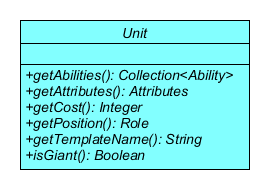
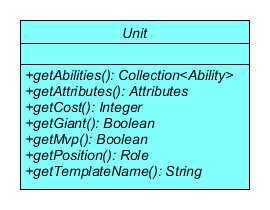
The Unit interface now indicates if said unit is a MVP.

Changed region(s): [[0.0593, 0.2895, 0.9185, 0.9211], [0.0593, 0.0789, 0.9185, 0.2368]]

diff --git a/src/main/java/com/wandrell/tabletop/dreadball/model/unit/Unit.java b/src/main/java/com/wandrell/tabletop/dreadball/model/unit/Unit.java
@@ -91,6 +91,20 @@ public interface Unit {
     public Integer getCost();
 
     /**
+     * Indicates whether the unit is a giant or not.
+     *
+     * @return {@code true} if the player is a giant, {@code false} otherwise
+     */
+    public Boolean getGiant();
+
+    /**
+     * Indicates whether the unit is a MVP or not.
+     *
+     * @return {@code true} if the player is a MVP, {@code false} otherwise
+     */
+    public Boolean getMvp();
+
+    /**
      * Returns the name given to the unit.
      * <p>
      * This is name used by the user to identify the unit.
@@ -116,12 +130,5 @@ public interface Unit {
      * @return the template's name.
      */
     public String getTemplateName();
-
-    /**
-     * Indicates whether the unit is a giant or not.
-     *
-     * @return {@code true} if the player is a giant, {@code false} otherwise
-     */
-    public Boolean isGiant();
 
 }

diff --git a/src/site/markdown/availabilities.md b/src/site/markdown/availabilities.md
@@ -16,13 +16,7 @@ The [TeamTypeUnitAvailability][team_type_unit_ava] represents a unit availabilit
 
 The [TeamTypeRangedUnitAvailability][team_type_ranged_unit_ava] adds constraints to this availability by indicating the initial number of copies of said unit a new team will have, and the maximum it can acquire.
 
-### Team Type MVPs
-
-![Team type MVPs ava class diagram](./images/team_type_mvp_ava_class_diagram.png)
-
-The [TeamTypeMvpAvailability][team_type_mvp_ava] represents a MVP availability.
-
-A MVP is similar in most aspects to a normal unit, but as they are the mercenaries or heroes of Dreadball there are some differences when acquiring them, which make a different interface necessary.
+Any additional constraint, such as MVP availabilities, are to be handled through the valued in the unit interfaces.
 
 ## Asset availabilities
 
